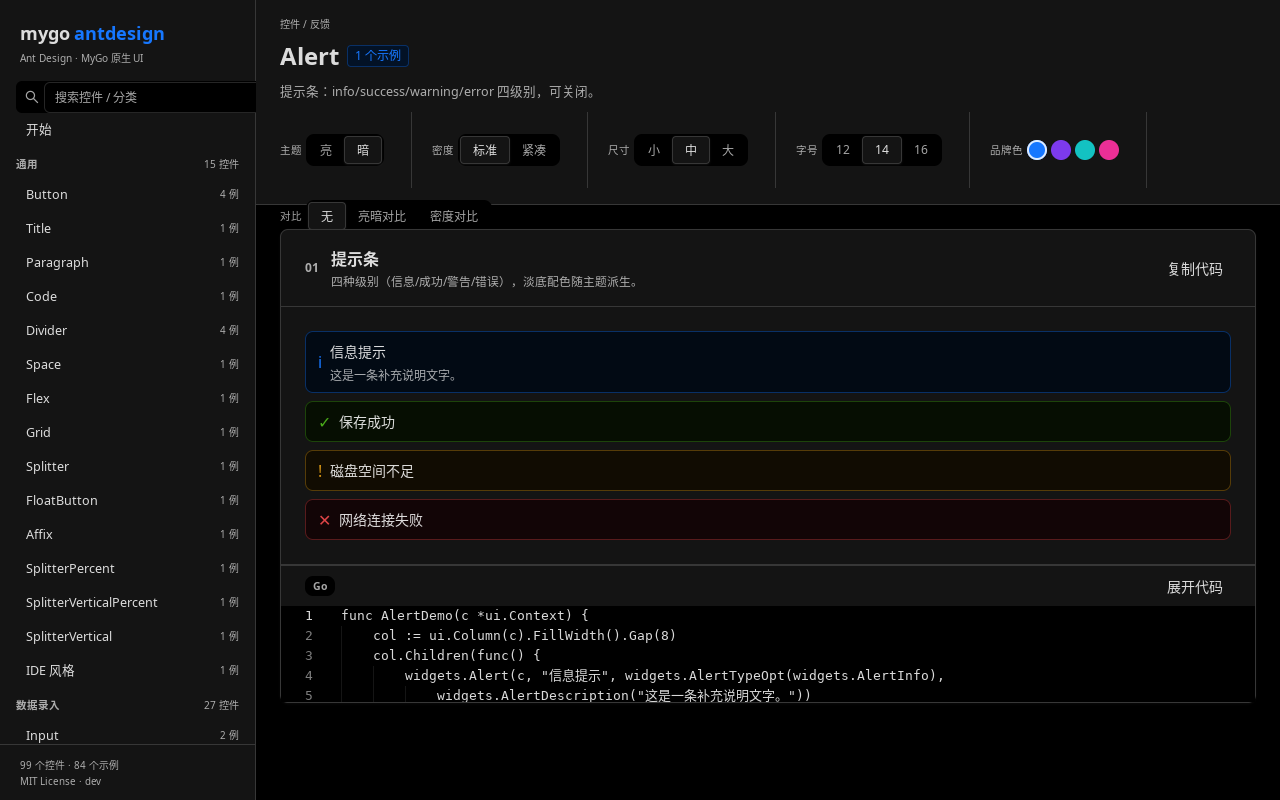
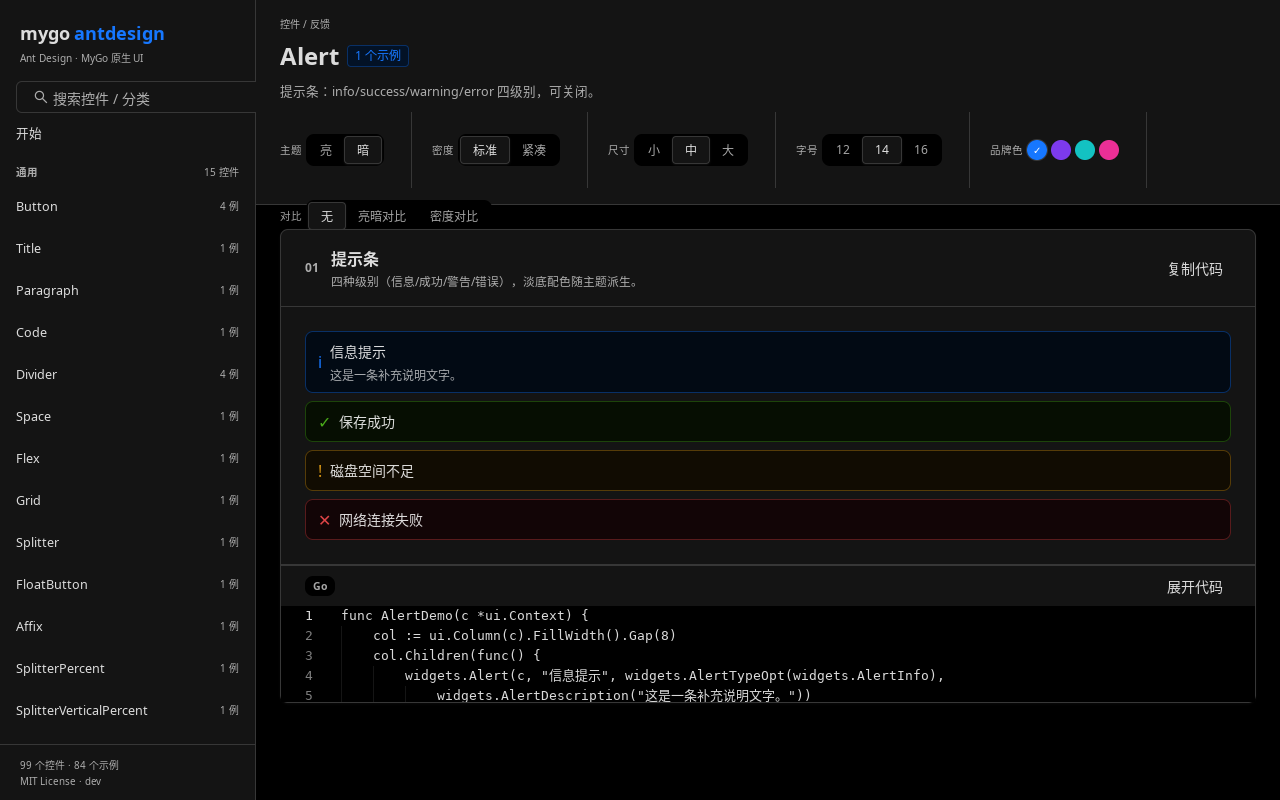
style(gallery): 第三轮细节打磨——侧栏搜索、导航与工具条对齐 antd 规范
- 侧栏搜索框改用库自身 Input：正规 antd 框架（描边、聚焦主色描边
  + 2px 焦点环），前缀搜索图标、后缀 allowClear；修复手搓 Row 嵌套
  裸 TextInput 导致的双重边框
- 导航项对齐 antd Menu：40px 项高、8px 圆角、16px 文字缩进，去掉
  非 antd 的左侧指示条，补 hover 浅填充态
- 品牌色圆点选中态改 antd ColorPicker 形制（白色对勾 + 1px 描边环），
  替换生硬的 2px 黑圈
- Button 五型配色复审：ButtonColors 各状态色阶均对齐 antd v5，无需改动
- docs/09 补充第三轮打磨记录；README 截图与 Gallery 基线重新生成

diff --git a/gallery/app.go b/gallery/app.go
@@ -261,38 +261,34 @@ func (g *Gallery) sidebar(c *ui.Context) {
 			ui.Text(c, "Ant Design · MyGo 原生 UI").TextColor(t.TextMuted).FontSize(t.Rem(0.72))
 		})
 
-		// 搜索框：浅灰底、无边框（对齐 antd 文档站侧栏搜索）。
-		search := ui.Row(c).FillWidth().
-			Height(t.Space(8)).
-			Margin(0, t.Space(4)).
-			Padding(0, t.Space(2)).
-			Radius(t.Radius).
-			Background(t.Background).
-			AlignItems(ui.Center).
-			Gap(t.Space(1))
-		search.Children(func() {
-			icon.Icon(c, icon.Search, t.Space(4), icon.WithColor(t.TextMuted))
-			ui.TextInput(c, &g.query).
-				Grow(1).
-				Background(t.Background).
-				Placeholder("搜索控件 / 分类").
-				PlaceholderColor(t.TextMuted).
-				FontSize(t.Rem(0.86))
-			if g.query != "" {
-				clear := ui.ButtonBase(c).Size(t.Space(5), t.Space(5)).Center()
-				clear.Children(func() {
+		// 搜索框：复用库自身的 Input（antd Input 规范：容器底描边、
+		// 聚焦主色描边 + 2px 焦点环），前缀搜索图标，后缀 allowClear。
+		widgets.Input(c, &g.query,
+			widgets.InputPrefix(func(c *ui.Context) {
+				icon.Icon(c, icon.Search, t.Space(4), icon.WithColor(t.TextMuted))
+				pad := ui.Box(c).Width(t.Space(1))
+				pad.Children(func() {})
+			}),
+			widgets.InputSuffix(func(c *ui.Context) {
+				if g.query == "" {
+					return
+				}
+				clr := ui.ButtonBase(c).Size(t.Space(4), t.Space(4)).Center().Radius(t.Space(2))
+				clr.Children(func() {
 					ui.Text(c, "✕").TextColor(t.TextMuted).FontSize(t.Rem(0.7))
 				})
-				if clear.Clicked() {
+				if clr.Clicked() {
 					g.query = ""
 				}
-			}
-		})
+			}),
+			widgets.PlaceholderText("搜索控件 / 分类"),
+			widgets.InputLabel("搜索控件"),
+		).FillWidth().Margin(0, t.Space(4))
 
 		// 目录。
 		ui.Scroll(c).Fill().Grow(1).Children(func() {
 			nav := ui.Column(c).FillWidth().
-				Padding(0, t.Space(2)).
+				Padding(0, t.Space(1)).
 				Gap(t.Space(0.5))
 			nav.Children(func() {
 				filtered := g.filtered()
@@ -320,7 +316,7 @@ func (g *Gallery) sidebar(c *ui.Context) {
 					}
 					head := ui.Row(c).FillWidth().
 						Justify(ui.SpaceBetween).
-						Padding(t.Space(2), t.Space(2), t.Space(1), t.Space(2))
+						Padding(t.Space(2), t.Space(3), t.Space(1), t.Space(3))
 					head.Children(func() {
 						ui.Text(c, string(cat)).TextColor(t.TextMuted).FontSize(t.Rem(0.75)).FontWeight(600)
 						ui.Textf(c, "%d 控件", len(group)).TextColor(t.TextMuted).FontSize(t.Rem(0.72))
@@ -345,27 +341,21 @@ func (g *Gallery) sidebar(c *ui.Context) {
 	})
 }
 
-// navItem 侧栏目录里的一项（「开始」入口或控件页）。
+// navItem 侧栏目录里的一项（对齐 antd Menu：40px 项高、8px 圆角、
+// 选中浅主色底 + 主色文字，hover 出浅填充；无左侧指示条）。
 func (g *Gallery) navItem(c *ui.Context, name string, selected bool, samples int) {
 	t := c.Theme()
 	item := ui.ButtonBase(c).FillWidth().
-		Height(t.Space(8)).
-		Padding(0, t.Space(2)).
-		Radius(t.Radius * 0.67).
-		AlignItems(ui.Center).
-		Gap(t.Space(2))
+		Height(t.Space(10)).
+		Padding(0, t.Space(3)).
+		Radius(t.Radius + t.Space(0.5)).
+		AlignItems(ui.Center)
 	if selected {
 		item.Background(t.Selection)
+	} else if item.Hovered() {
+		item.Background(t.SurfaceHover)
 	}
 	item.Children(func() {
-		bar := ui.Box(c).Width(t.Space(0.5)).Height(t.Space(4)).
-			Radius(t.Space(0.25))
-		if selected {
-			bar.Background(t.Accent)
-		} else {
-			bar.Background(ui.Transparent)
-		}
-		bar.Children(func() {})
 		ui.Text(c, name).
 			TextColor(map[bool]ui.Color{true: t.Accent, false: t.Text}[selected]).
 			FontSize(t.Rem(0.9)).
@@ -460,11 +450,18 @@ func (g *Gallery) tools(c *ui.Context) {
 					sw := ui.ButtonBase(c).
 						Size(t.Space(5), t.Space(5)).
 						Radius(t.Space(2.5)).
-						Background(ui.Hex(bc.hex))
-					if g.brand == bc.hex {
-						sw.Border(2, t.Text)
+						Background(ui.Hex(bc.hex)).
+						Center()
+					on := g.brand == bc.hex
+					if on {
+						// 选中态对齐 antd ColorPicker：白色对勾 + 1px 描边环。
+						sw.Shadow(0, 0, 0, 1, t.Border)
 					}
-					sw.Children(func() {})
+					sw.Children(func() {
+						if on {
+							ui.Text(c, "✓").TextColor(ui.Hex("#fff")).FontSize(t.Rem(0.7)).FontWeight(700)
+						}
+					})
 					if sw.Clicked() {
 						g.brand = bc.hex
 					}

diff --git a/docs/09-antd-parity.md b/docs/09-antd-parity.md
@@ -89,6 +89,15 @@
 Gallery 外壳（`gallery/app.go`），逐示例基线不受影响，Gallery 级基线与
 README 截图已重新生成。
 
+### 3.2 第三轮：侧栏与工具条细节（用户复审反馈）
+
+| 区域 | 打磨前 | 打磨后 |
+| --- | --- | --- |
+| 侧栏搜索框 | 手搓 Row 承托 + 裸 ui.TextInput（原语默认边框未清空，灰底药丸里嵌套带边框输入框，双重框） | 复用库自身 Input：正规 antd 框架（容器底描边、聚焦主色描边 + 2px 焦点环），前缀搜索图标、后缀 allowClear 清除按钮 |
+| 导航项 | 32px 高 + 左侧主色竖条（非 antd Menu 形制） | 对齐 antd Menu：40px 项高、8px 圆角、16px 文字缩进、去掉竖条，补 hover 浅填充态 |
+| 品牌色圆点 | 选中态 2px 黑圈，生硬 | antd ColorPicker 形制：白色对勾 + 1px 描边环 |
+| Button 等控件配色 | 复审 ButtonColors：primary/default/dashed/text/link 五型与 hover/pressed 色阶均对齐 antd v5（default hover 文字与描边变主色、text hover 浅填充、link 主色文字），未发现违背 | 无需改动 |
+
 ## 4. 仍存在的差异（有意保留 / 后续）
 
 | 项 | 说明 |
